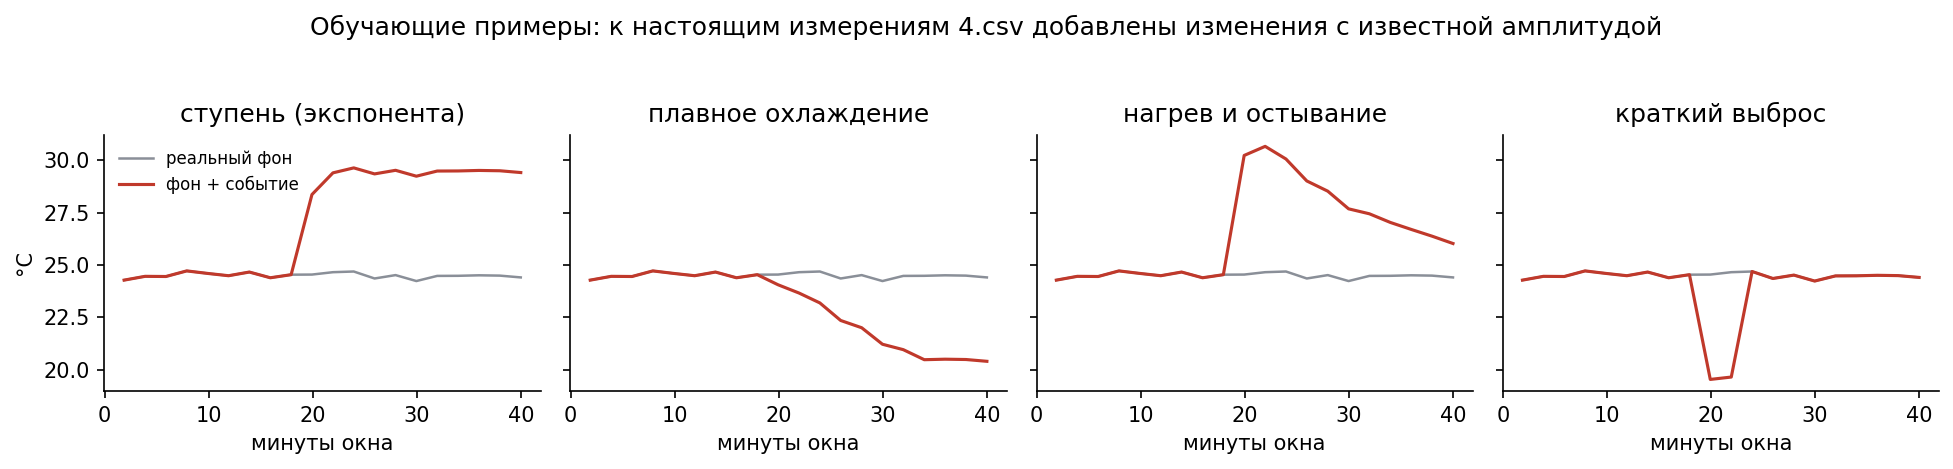
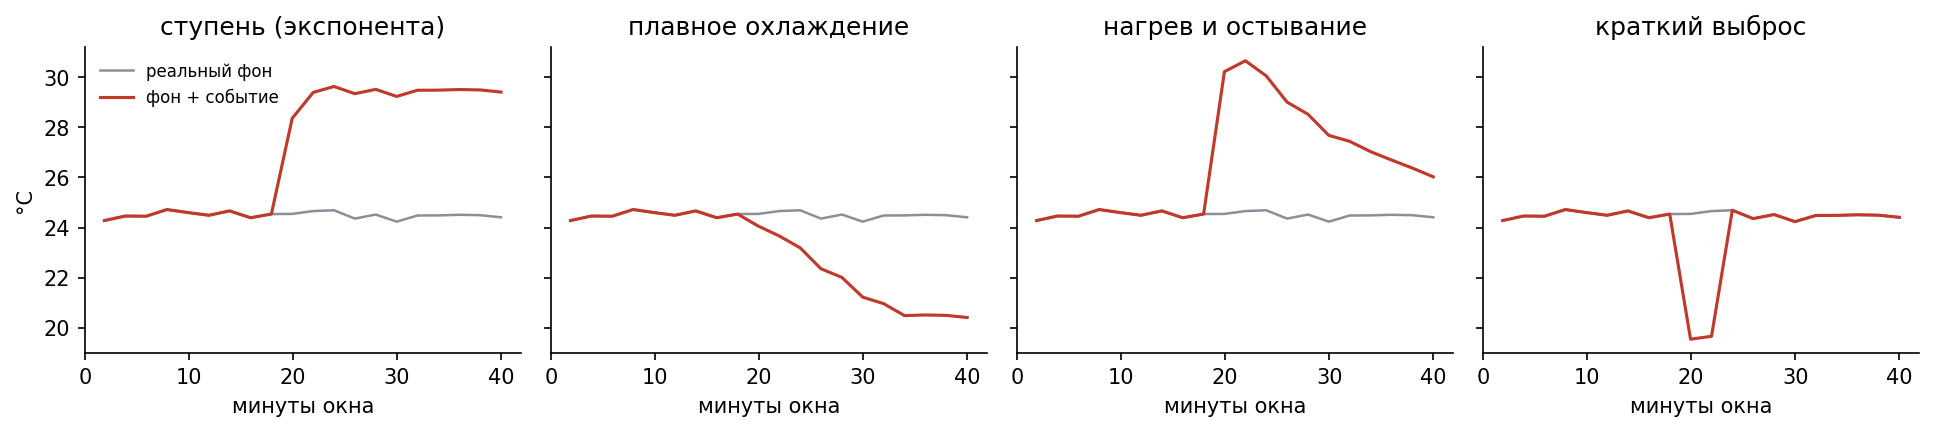
Clearer figures: no titles, zoomed event map with numbered events, short axis labels

diff --git a/fiberwatch.py b/fiberwatch.py
@@ -945,7 +945,6 @@ def injection_example(data_dir, out):
         ax.set_xlabel('минуты окна')
     axes[0].set_ylabel('°C')
     axes[0].legend(fontsize=8, frameon=False)
-    fig.suptitle('Обучающие примеры: к настоящим измерениям 4.csv добавлены изменения с известной амплитудой', y=1.03)
     fig.tight_layout()
     fig.savefig(out / 'fig2_injection_examples.png', dpi=150, bbox_inches='tight')
     plt.close(fig)
@@ -957,24 +956,25 @@ def heatmap(run, data_dir, out, name='4.csv', model='cnn2d'):
     events = events.loc[events.file.eq(name) & events.model.eq(model)].copy()
     for column in ['first_alert', 'last_alert']:
         events[column] = pd.to_datetime(events[column], format='ISO8601')
-    shown = matrix.loc[:, matrix.lt(INVALID_BELOW).sum().eq(0)]
-    fig, ax = plt.subplots(figsize=(12, 5))
-    hours = (shown.index - shown.index[0]) / pd.Timedelta(hours=1)
-    image = ax.pcolormesh(shown.columns, hours, shown.values, cmap='inferno', shading='auto')
-    fig.colorbar(image, ax=ax, label='°C')
-    start = shown.index[0]
-    for _, e in events.iterrows():
-        y0 = (e.first_alert - start) / pd.Timedelta(hours=1) - 40 / 60
-        y1 = (e.last_alert - start) / pd.Timedelta(hours=1)
-        ax.add_patch(plt.Rectangle((e.coordinate_from - 1, y0), e.coordinate_to - e.coordinate_from + 2, y1 - y0,
-                                   fill=False, edgecolor='#4fc3f7', lw=1.4))
-    ax.axhline((shown.index[-1] - start) / pd.Timedelta(hours=1) * COMMISSIONING_SHARE, color='white', ls='--', lw=1)
-    ax.set_xlabel('расстояние вдоль волокна, м')
-    ax.set_ylabel(f'часы от начала записи ({shown.index[0]})')
-    ax.set_title(f'{name}: голубые рамки — события {NAMES[model]} после пусконаладки (пунктир), {len(events)} шт.')
-    fig.tight_layout()
-    fig.savefig(out / f'fig7_heatmap_{name.replace(".csv", "")}.png', dpi=150)
-    plt.close(fig)
+    low, high = events.coordinate_from.min() - 15, events.coordinate_to.max() + 15
+    shown = matrix.loc[:, (matrix.columns >= low) & (matrix.columns <= high) & matrix.lt(INVALID_BELOW).sum().eq(0)]
+    midnight = shown.index[0].normalize()
+    hours = (shown.index - midnight) / pd.Timedelta(hours=1)
+    with plt.rc_context({'font.size': 15}):
+        fig, ax = plt.subplots(figsize=(12, 5))
+        image = ax.pcolormesh(shown.columns, hours, shown.values, cmap='inferno', shading='auto')
+        fig.colorbar(image, ax=ax, label='T, °C')
+        for number, e in enumerate(events.sort_values('first_alert').itertuples(), 1):
+            y0 = (e.first_alert - midnight) / pd.Timedelta(hours=1) - 40 / 60
+            y1 = (e.last_alert - midnight) / pd.Timedelta(hours=1)
+            ax.add_patch(plt.Rectangle((e.coordinate_from - .5, y0), e.coordinate_to - e.coordinate_from + 1, y1 - y0,
+                                       fill=False, edgecolor='#4fc3f7', lw=2))
+            ax.annotate(str(number), (e.coordinate_to + .8, y1), color='#4fc3f7', fontsize=13, weight='bold', va='top')
+        ax.set_xlabel('x, м')
+        ax.set_ylabel('t, ч')
+        fig.tight_layout()
+        fig.savefig(out / f'fig7_heatmap_{name.replace(".csv", "")}.png', dpi=150)
+        plt.close(fig)
 
 
 def render_figures(run, data_dir, annotations_path, cases_dir):
